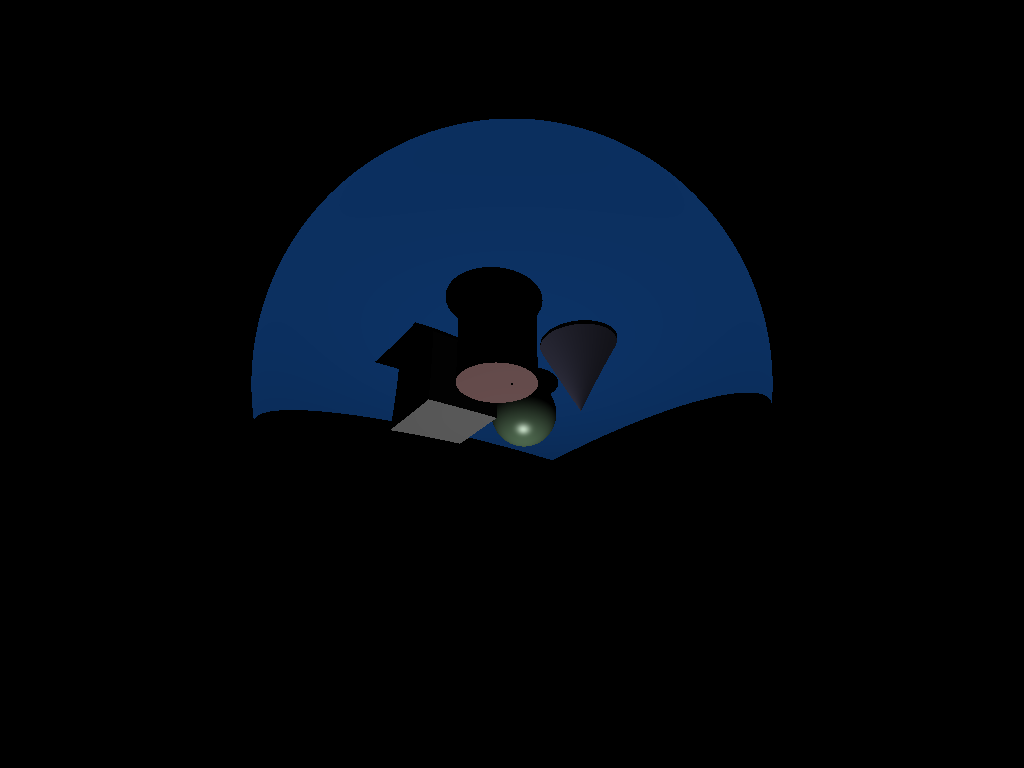
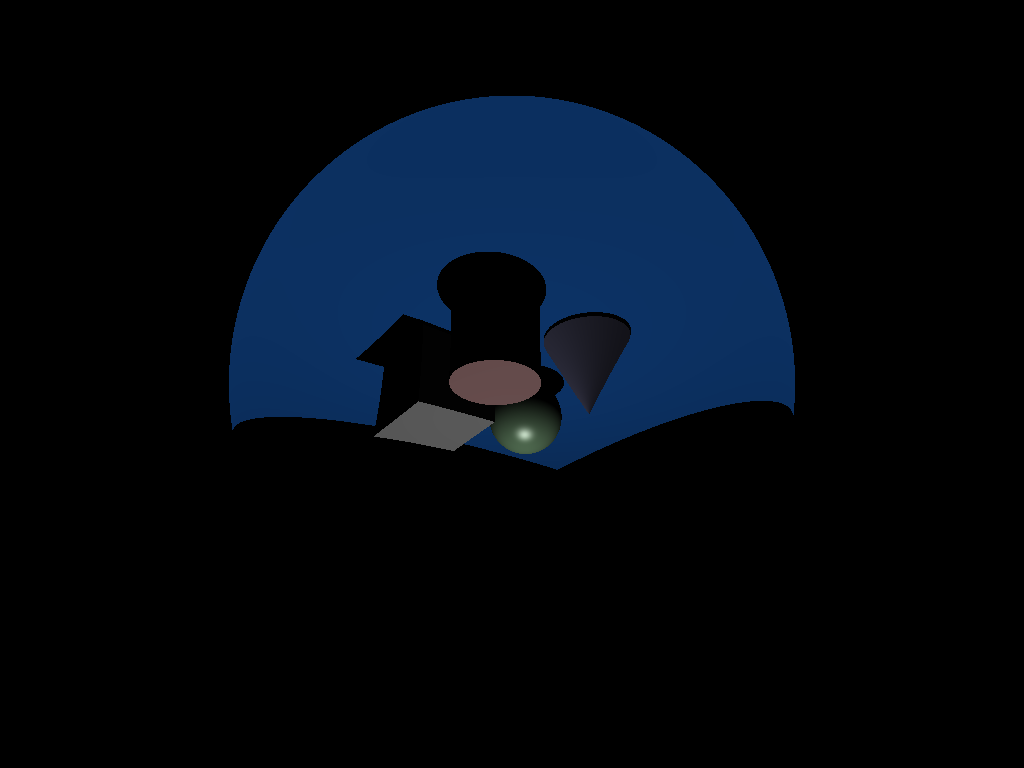
cleaning up, still upside down

Changed region(s): [[0.2188, 0.125, 0.7812, 0.625]]

diff --git a/src/raytracer/raytracer.cpp b/src/raytracer/raytracer.cpp
@@ -75,62 +75,27 @@ void RayTracer::render(RGBA *imageData, const RayTraceScene &scene) {
 
     for (int r = 0; r < scene.height(); r ++) {
         for (int c = 0; c < scene.width(); c ++) {
-            imageData[r * scene.width() + c] = superSamp(r, c, 1.0f, scene, root, camera, eyePoint, maxDepth, lens);
+            glm::vec3 d, p;
+
+            if (lens) {
+                d = glm::normalize(scene.getPoint(r, c, camera));
+
+                glm::vec3 eyePointLens;
+                glm::vec3 dLens;
+                if (!traceRayThroughLens(glm::vec3(0.0f), d, &eyePointLens, &dLens, scene.getLensInterfaces())) {
+                    imageData[r * scene.width() + c] = RGBA{0, 0, 0, 255};
+                } else {
+                    d = glm::normalize(camera.getInverseViewMatrix() * glm::vec4(dLens, 0.0f));
+                    p = camera.getInverseViewMatrix() * glm::vec4(eyePointLens, 1.0f);
+                    imageData[r * scene.width() + c] = traceRay(r, c, scene, root, p, d, 0);
+                }
+            } else {
+                d = glm::normalize(camera.getInverseViewMatrix() * glm::vec4(scene.getPoint(r, c, camera), 1.0f) - glm::vec4(eyePoint, 1.0f));
+                p = eyePoint;
+                imageData[r * scene.width() + c] = traceRay(r, c, scene, root, p, d, 0);
+            }
         }
     }
-}
-
-RGBA RayTracer::superSamp(float r, float c, int pixelSize, const RayTraceScene &scene, KdTree::KdNode* root,
-                                    const Camera &camera, const glm::vec3 &eyePoint, int maxDepth, bool lens) {
-
-    glm::vec3 d, p;
-
-    if (lens) {
-        d = glm::normalize(scene.getPoint(r, c, camera));
-        bool debug = false;
-
-        if (r == 384 && c == 513) {
-            debug = true;
-        }
-
-        glm::vec3 eyePointLens;
-        glm::vec3 dLens;
-        if (!traceRayThroughLens(glm::vec3(0.0f), d, &eyePointLens, &dLens, scene.getLensInterfaces(), debug)) {
-            return RGBA{0, 0, 0, 255};
-        }
-
-        d = glm::normalize(camera.getInverseViewMatrix() * glm::vec4(dLens, 0.0f));
-        p = camera.getInverseViewMatrix() * glm::vec4(eyePointLens, 1.0f);
-    } else {
-        d = glm::normalize(camera.getInverseViewMatrix() * glm::vec4(scene.getPoint(r, c, camera), 1.0f) - glm::vec4(eyePoint, 1.0f));
-        p = eyePoint;
-
-    }
-
-    // float threshold = 0.1;
-    // float halfPixel = pixelSize / 2.0f;
-
-    // RGBA samples[4] = {
-    //     traceRay(r + pixelSize * 0.25, c + pixelSize * 0.25, scene, root, eyePoint, d, 0),
-    //     traceRay(r + pixelSize * 0.75, c + pixelSize * 0.25, scene, root, eyePoint, d, 0),
-    //     traceRay(r + pixelSize * 0.25, c + pixelSize * 0.75, scene, root, eyePoint, d, 0),
-    //     traceRay(r + pixelSize * 0.75, c + pixelSize * 0.75, scene, root, eyePoint, d, 0)
-    // };
-
-    // float variance = calculateColorVariance(samples);
-
-    // if (variance < threshold || maxDepth == 0) {
-    //     return averageColor(samples);
-    // }
-
-    // RGBA subSamples[4] = {
-    //     superSamp(r, c, halfPixel, scene, root, camera, eyePoint, maxDepth - 1, lens),
-    //     superSamp(r + halfPixel, c, halfPixel, scene, root, camera, eyePoint, maxDepth - 1, lens),
-    //     superSamp(r, c + halfPixel, halfPixel, scene, root, camera, eyePoint, maxDepth - 1, lens),
-    //     superSamp(r + halfPixel, c + halfPixel, halfPixel, scene, root, camera, eyePoint, maxDepth - 1, lens)
-    // };
-
-    return traceRay(r, c, scene, root, p, d, 0);
 }
 
 
@@ -281,16 +246,11 @@ RGBA RayTracer::averageColor(RGBA samples[4]) {
     };
 }
 
-bool RayTracer::traceRayThroughLens(const glm::vec3 eyePoint, const glm::vec3 d, glm::vec3 *eyePointOut, glm::vec3 *dOut, std::vector<LensInterface> lenses, bool debug) {
-    glm::mat3 scaleMatrix = glm::mat3(1.0);
-    scaleMatrix[2][2] = 1.0f;
-    glm::vec3 dLens = scaleMatrix * d;
-    glm::vec3 eyePointLens = scaleMatrix * eyePoint;
+bool RayTracer::traceRayThroughLens(const glm::vec3 eyePoint, const glm::vec3 d, glm::vec3 *eyePointOut, glm::vec3 *dOut, std::vector<LensInterface> lenses) {
+    glm::vec3 dLens = d;
+    glm::vec3 eyePointLens = eyePoint;
     float z = 0.0f;
-    for (int i = lenses.size() - 1; i >= 0; i--) {
-        if (debug && i ==0) {
-            auto hello = 0;
-        }
+    for (int i = lenses.size() - 1; i >= 0; --i) {
         LensInterface lens = lenses[i];
         z -= lens.thickness;
         float t;
@@ -299,16 +259,12 @@ bool RayTracer::traceRayThroughLens(const glm::vec3 eyePoint, const glm::vec3 d,
         bool isStop = (lens.radius == 0);
         if (isStop) {
             t = (z - eyePointLens[2]) / dLens[2];
-            intersectionPoint = dLens * t + eyePointLens;
+            intersectionPoint = eyePointLens + t * dLens;
         } else {
             float r = lens.radius;
             float center = z + r;
             glm::mat4 translation = glm::mat4(1.0f);
             translation[3][2] = center;
-            float scalingFactor = (r/0.5f);
-            translation[0][0] =  scalingFactor;
-            translation[1][1] =  scalingFactor;
-            translation[2][2] =  scalingFactor;
             Sphere sphere = Sphere(translation, SceneMaterial{}, nullptr);
             sphere.setIsLens(true);
             sphere.setRadius(r);
@@ -335,8 +291,8 @@ bool RayTracer::traceRayThroughLens(const glm::vec3 eyePoint, const glm::vec3 d,
         }
     }
 
-    *dOut = scaleMatrix * dLens;
-    *eyePointOut = scaleMatrix * eyePointLens;
+    *dOut = dLens;
+    *eyePointOut = eyePointLens;
     return true;
 }
 

diff --git a/src/utils/sphere.cpp b/src/utils/sphere.cpp
@@ -17,6 +17,10 @@ glm::vec3 Sphere::calcNormal(const glm::vec3 point) {
     glm::vec3 n = glm::normalize(glm::vec3(glm::transpose(m_inverseCTM) * glm::vec4(objectSpaceNormal, 0.0f)));
 
     // Transform normal back to world space using the transpose of the inverse of CTM
+    // if (m_isLens && m_radius > 0) {
+    //     return -n;
+    // }
+
     return n;
 }
 
@@ -28,7 +32,7 @@ bool Sphere::calcIntersection(const glm::vec3 rayOrigin, const glm::vec3 rayDire
 
     float a = glm::dot(d, d);
     float b = 2.0f * glm::dot(P, d);
-    float c = glm::dot(P, P) - 0.5f * 0.5f;
+    float c = glm::dot(P, P) - m_radius * m_radius;
     float discriminant = b * b - 4 * a * c;
 
     if (discriminant >= 0) {

diff --git a/src/raytracer/raytracer.h b/src/raytracer/raytracer.h
@@ -49,7 +49,7 @@ public:
 
     RGBA averageColor(RGBA samples[4]);
 
-    bool traceRayThroughLens(const glm::vec3 eyePoint, const glm::vec3 d, glm::vec3 *eyePointOut, glm::vec3 *dOut, std::vector<LensInterface> lenses, bool debug);
+    bool traceRayThroughLens(const glm::vec3 eyePoint, const glm::vec3 d, glm::vec3 *eyePointOut, glm::vec3 *dOut, std::vector<LensInterface> lenses);
 
     bool refract(glm::vec3 d, glm::vec3 normal, float n1, float n2, glm::vec3 *outputD);
 

diff --git a/src/utils/lensfilereader.cpp b/src/utils/lensfilereader.cpp
@@ -67,9 +67,6 @@ bool LensFileReader::readLensFile() {
     }
 
     for (int i = 0; i < (int)lensData.size(); i += 4) {
-        // if (lensData[i] == 0) {
-        //         lensData[i + 3] = apertureDiameter;
-        // } fix later??
         m_lensInterfaces.push_back(LensInterface
             {lensData[i] * 0.001f, lensData[i + 1] * 0.001f,
              lensData[i + 2], lensData[i + 3] * 0.001f / 2.0f});
